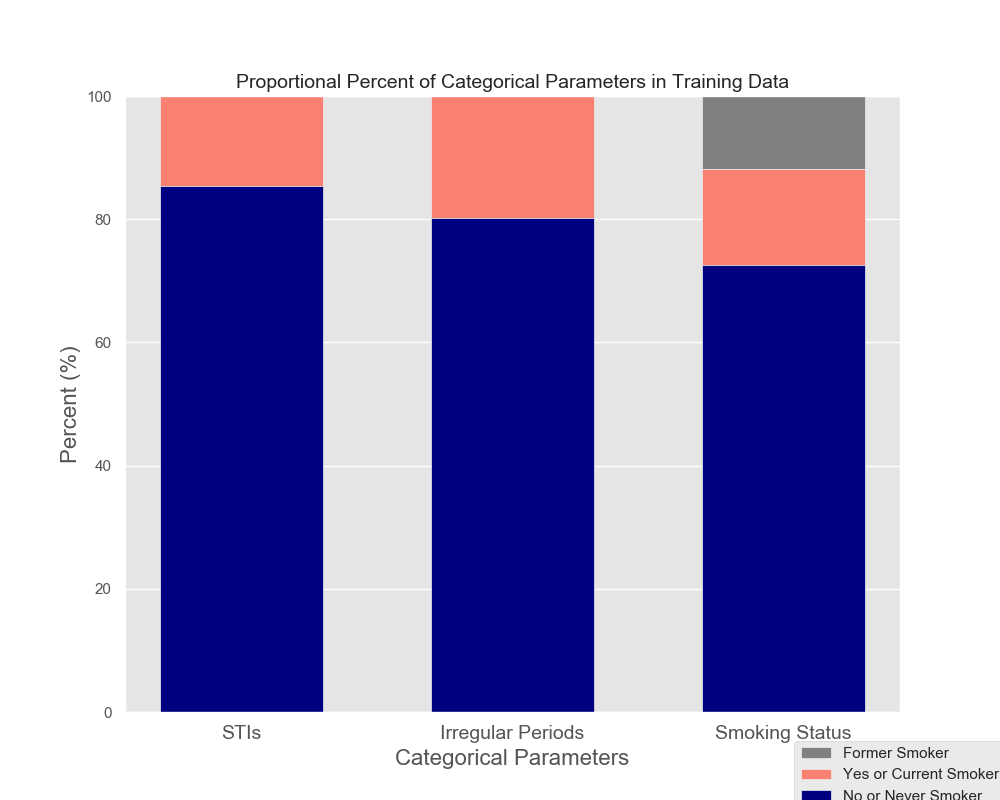
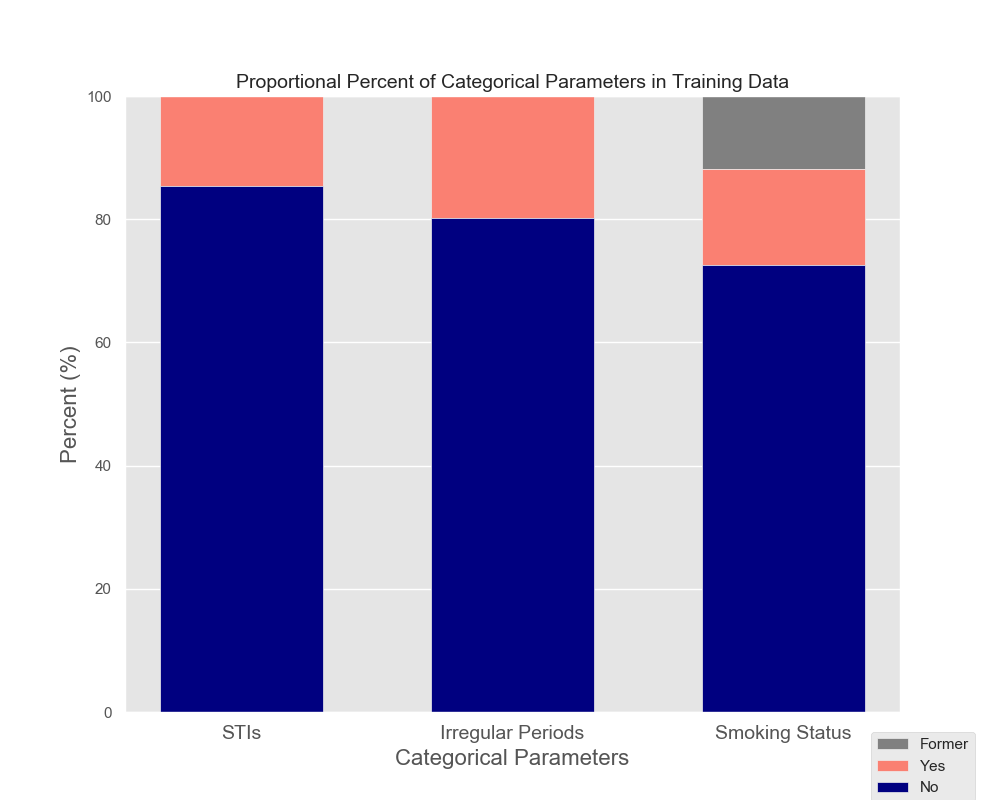
update readme

Changed region(s): [[0.775, 0.9062, 1.0, 1.0]]

diff --git a/src/final_mod.py b/src/final_mod.py
@@ -91,7 +91,7 @@ def generate_confusion_matrix(y_test, y_pred, labels, title, filename, show=Fals
     plt.xlabel("Predicted Label", fontsize=14, fontweight='bold')
     plt.title(title, fontsize=14, fontweight='bold')
     plt.xticks(fontsize=14)
-    plt.yticks(fontsize=14)
+    plt.yticks(fontsize=14)̨
     ttl = ax.title
     ttl.set_position([0.5, 1.03])
     plt.savefig(filename)
@@ -174,16 +174,16 @@ proportion_yes = np.true_divide(yes_, total) * 100
 proportion_former = np.true_divide(former_, total) * 100
 
 plt.figure(figsize=(10,8))
-plt.bar(ind, proportion_former, width=0.6, label='Former Smoker', color='gray', bottom=proportion_no + proportion_yes)
-plt.bar(ind, proportion_yes, width=0.6, label='Yes or Current Smoker', color='salmon', bottom=proportion_no)
-plt.bar(ind, proportion_no, width=0.6, label='No or Never Smoker', color='navy')
+plt.bar(ind, proportion_former, width=0.6, label='Former', color='gray', bottom=proportion_no + proportion_yes)
+plt.bar(ind, proportion_yes, width=0.6, label='Yes', color='salmon', bottom=proportion_no)
+plt.bar(ind, proportion_no, width=0.6, label='No', color='navy')
 
 plt.xticks(ind, x_var, fontsize = 14)
 plt.ylabel("Percent (%)", fontsize = 16)
 plt.xlabel("Categorical Parameters", fontsize = 16)
 plt.title("Proportional Percent of Categorical Parameters in Training Data", fontsize = 14)
 plt.ylim=1.0
-plt.legend(loc='upper center', bbox_to_anchor=(1, -0.034))
+plt.legend(loc='upper center', bbox_to_anchor=(1.03, -0.020))
 
 plt.savefig('../images/proportionalcats.png')
 

diff --git a/README.md b/README.md
@@ -19,7 +19,7 @@ Infertility is influenced by a broad range of physical, anatomical, hormonal, ge
 
 The clinical diagnosis of infertility is defined as the failure to conceive within 12 months and affects 7% to 8% of reproductive-aged American women. The American Society for Reproductive Medicine recommends that a woman should consult her physician if she is under 35 years of age and has been trying to conceive for more than 12 months or over 35 years of age and has been trying for 6 or more months.
 
-## Question: Can I predict infertility among women based on self-reported risk factor data?
+# Question: Can I predict infertility among women based on self-reported risk factor data?
 
 # Data
 ![](images/nhanes_logo.png)
@@ -52,10 +52,17 @@ In the NHANES dataset, there are two questions asked:
 
 Those participants that said “Yes” to one of either of the two questions are infertile and those that said “No” as fertile.
 
+|  	| Training Count 	| Training %	| Test Count | Test % | Overall Count | Overall %
+|-------------------	|-------	|------------	| -----| ------|-----
+| Infertile (Y = 1) 	| 139 	| 11% 	| 25 | 11% | 174 | 11%
+| Fertile (Y = 0) 	| 1125 	| 89% 	| 282 | 89% | 1407 | 89%
 
+We can we that this is a binary outcome, therefore I will be performing **Logistic Regression** with fertility status as the outcome.
+
+*note: This data is subject to class imbalance*
 
 ### EDA:
-*note, I'm only showing EDA on those variables I kept in my final model*
+*note: I'm only showing EDA on those variables I kept in my final model*
 
 #### Continuous Variables: Age, BMI, Alcohol
 <p align="center">
@@ -70,18 +77,39 @@ Those participants that said “Yes” to one of either of the two questions are
 </p>
 
 ### Model Training:
-<p align="center">
-<img src="images/flowchart.png" width = 600px>
+<p align="center">̨
+<img src="images/flowchart.png">
 </p>
 
 #### How did I choose my test metric?
 1. What is the question at hand?
 2. What are the potential metrics?
 
+
+|  	| Recall (TP/TP+FN) 	| Precision (TP/TP+FP) 	|
+|------	|-----------------------------------------------------------------------------------------------------------------------------------------------------------------------------	|-------------------------------------------------------------------------------------------------------------------------------------------------------------------------------------------------------------------------------------------------------------------------------------------------------------------------------------------------------------------	|
+| Pros 	|  Minimizes my false negatives (Telling someone they are fertile when actually they are infertile) 	| Minimizes my false positives (Telling someone they are infertile when actually they are fertile) 	|
+|  	| When thinking about the emotional/monetary/and time a couple might spend and on top of that, not actually being able to concieve, it seems best to minimize false negatives 	| Potentially could reduce the amount of money going into tests 	|
+| Cons 	| Most likely my false positives will take a hit and we will be having a lot more type 1 error 	| Assuming we are in a population of people who want to have kids, if we are minimizing the false positives, we aren’t necessarily minimizing the false negatives, so it will take more of a toll on couples if they think they are fertile but in fact they aren’t. This is especially true in those couples who are older and are already at risk of infertility. 	|
+|  	| If a person wants to be more liberal with their knowledge of being “infertile” they might have a fun surprise waiting for them. 	| Most likely my false positives will take a hit and we will be having a lot more type 1 error 	|                                                                                                                                                                                            	|
+
+
+Beyond this, we have to think about the other effects this can have on a couple.Infertility causes several effects in different types of personal health: physical, mental, emotional, psychological, social and even religious, in the couples that suffer from it. It’s one of the most important causes of depression, and its social, psychological and cultural consequences. [ source](https://pdfs.semanticscholar.org/75d6/fa1291e80cb867fd2fa07fc99aea1bbfb43d.pdf)
+
+
+#### Based on this, I chose to reduce my false negatives, therefore I will be looking at recall.
+
+#### Other choices made from my K-fold CV analysis:
+1. Class weights decided = 'balanced' or in my case 10:1
+  * For every individual that was infertile, they are worth 10 fertile.
+2. Threshold at which my predicted probabilities were decided = 0.4
+  * Because I wanted to reduce my false negatives, I wanted to allow a few more false positives go by, so instead of having a default threshold of 0.5, I chose a threshold of 0.4.
+
 ### Final Model Assessment:
 
 ```python
 Coefficients from the final holdout model using Stats Models
+*Note, this does not take into account my chosen class weights or threshold previously mentioned*
                       coef     P>|z|
 Intercept          -5.0404     0.000      
 Age                 0.0394     0.047      
@@ -95,6 +123,7 @@ Former Smoke       -0.7065     0.289
 Because age and BMI are significant, we can look at the exp(0.0394) = 1.04 (age), and exp(0.0513) = 1.05
 
 ***Interpretation of age***
+
 **Holding all else constant, on average, with a one year increase in age, the odds increase by 4% among those that are infertile compared to those that are fertile.**
 
 ***Interpretation of BMI***
@@ -102,19 +131,26 @@ Because age and BMI are significant, we can look at the exp(0.0394) = 1.04 (age)
 **Holding all else constant, on average, with a one unit increase in BMI, the odds increase by 5% among those that are infertile compared to those that are fertile.**
 
 <p align="center">
-<img src="images/ROC_holdout.png">
+<img src="images/ROC_holdout.png" width=700px>
 </p>
 
-* **The recall from my training model 0.906**
-* **The recall from my final hold out was 0.886**
+* **The recall from my training data: 0.906**
+* **The recall from my final holdout data: 0.886**
 
 <p align="center">
-<img src="images/confusion_mat_holdout.png">
+<img src="images/confusion_mat_holdout.png" width=700px>
 </p>
 
 
 # Discussion
 
+### Take Away:
+What can we take away from this analysis? Based on the above analysis, the probability that my model could correctly predict those individuals that were actually infertile was 0.886. That is, the model was retrieving the infertile individuals that should have been infertile.
+
+### Final thoughts:
+* If I examine any of the specific beta coefficients from my model (performed by stats models not sklearn), I can that age and bmi increase with an infertile outcome compared to fertile outcome. While these make sense, many of the other predictors do not, for instance, I would have expected a history of STIs, irregular periods, increase smoking intensity would have higher odds among the infertile group compare to the fertile group, but my model is not telling me this.
+* I do have class imbalance in this analysis (only ~10% infertile), while I try to combat this by weighting my classes (Y = 1 vs Y = 0) differently. In an ideal situation, I would have a 50/50 split of my weights so I could correctly predict without having to bias my outcome variable.
+* I was able to make sure that during my test-train splits and during my k-fold, I preserved the proportions of my outcome. Therefore if I observed 10% infertile in my overall dataset, after a test train split, I would still have 10% infertile in my train set and 10% infertile in my test set. The same goes for my k-fold splits.
 
 
 # Future Steps
